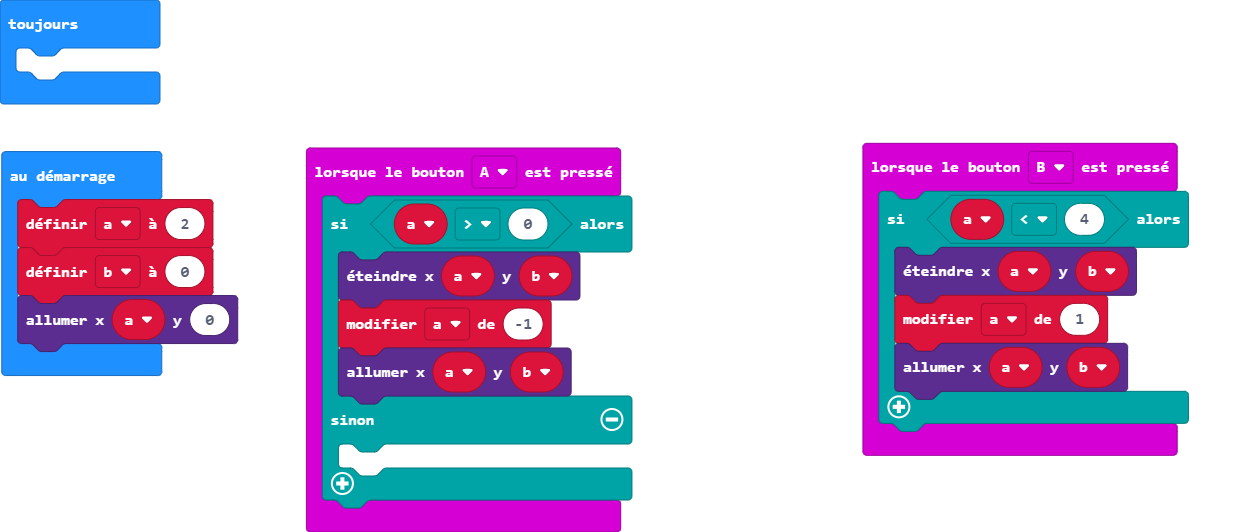
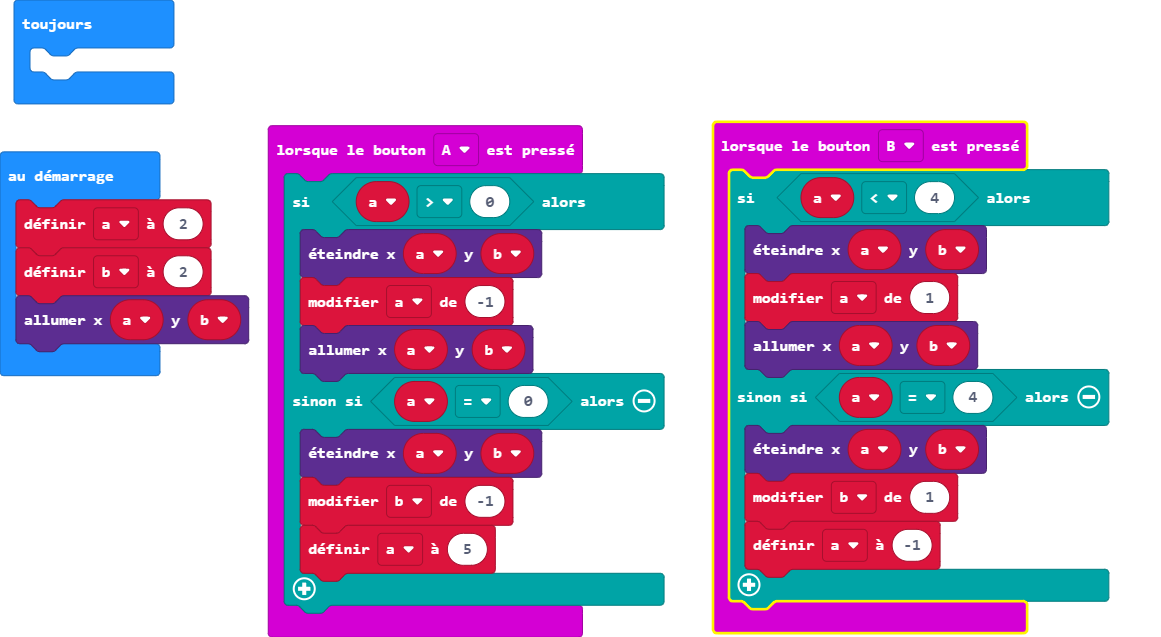
Mise à jour main.blocks, main.ts

diff --git a/main.ts b/main.ts
@@ -3,8 +3,10 @@ input.onButtonPressed(Button.A, function () {
         led.unplot(a, b)
         a += -1
         led.plot(a, b)
-    } else {
-    	
+    } else if (a == 0) {
+        led.unplot(a, b)
+        b += -1
+        a = 5
     }
 })
 input.onButtonPressed(Button.B, function () {
@@ -12,13 +14,17 @@ input.onButtonPressed(Button.B, function () {
         led.unplot(a, b)
         a += 1
         led.plot(a, b)
+    } else if (a == 4) {
+        led.unplot(a, b)
+        b += 1
+        a = -1
     }
 })
 let b = 0
 let a = 0
 a = 2
-b = 0
-led.plot(a, 0)
+b = 2
+led.plot(a, b)
 basic.forever(function () {
 	
 })
